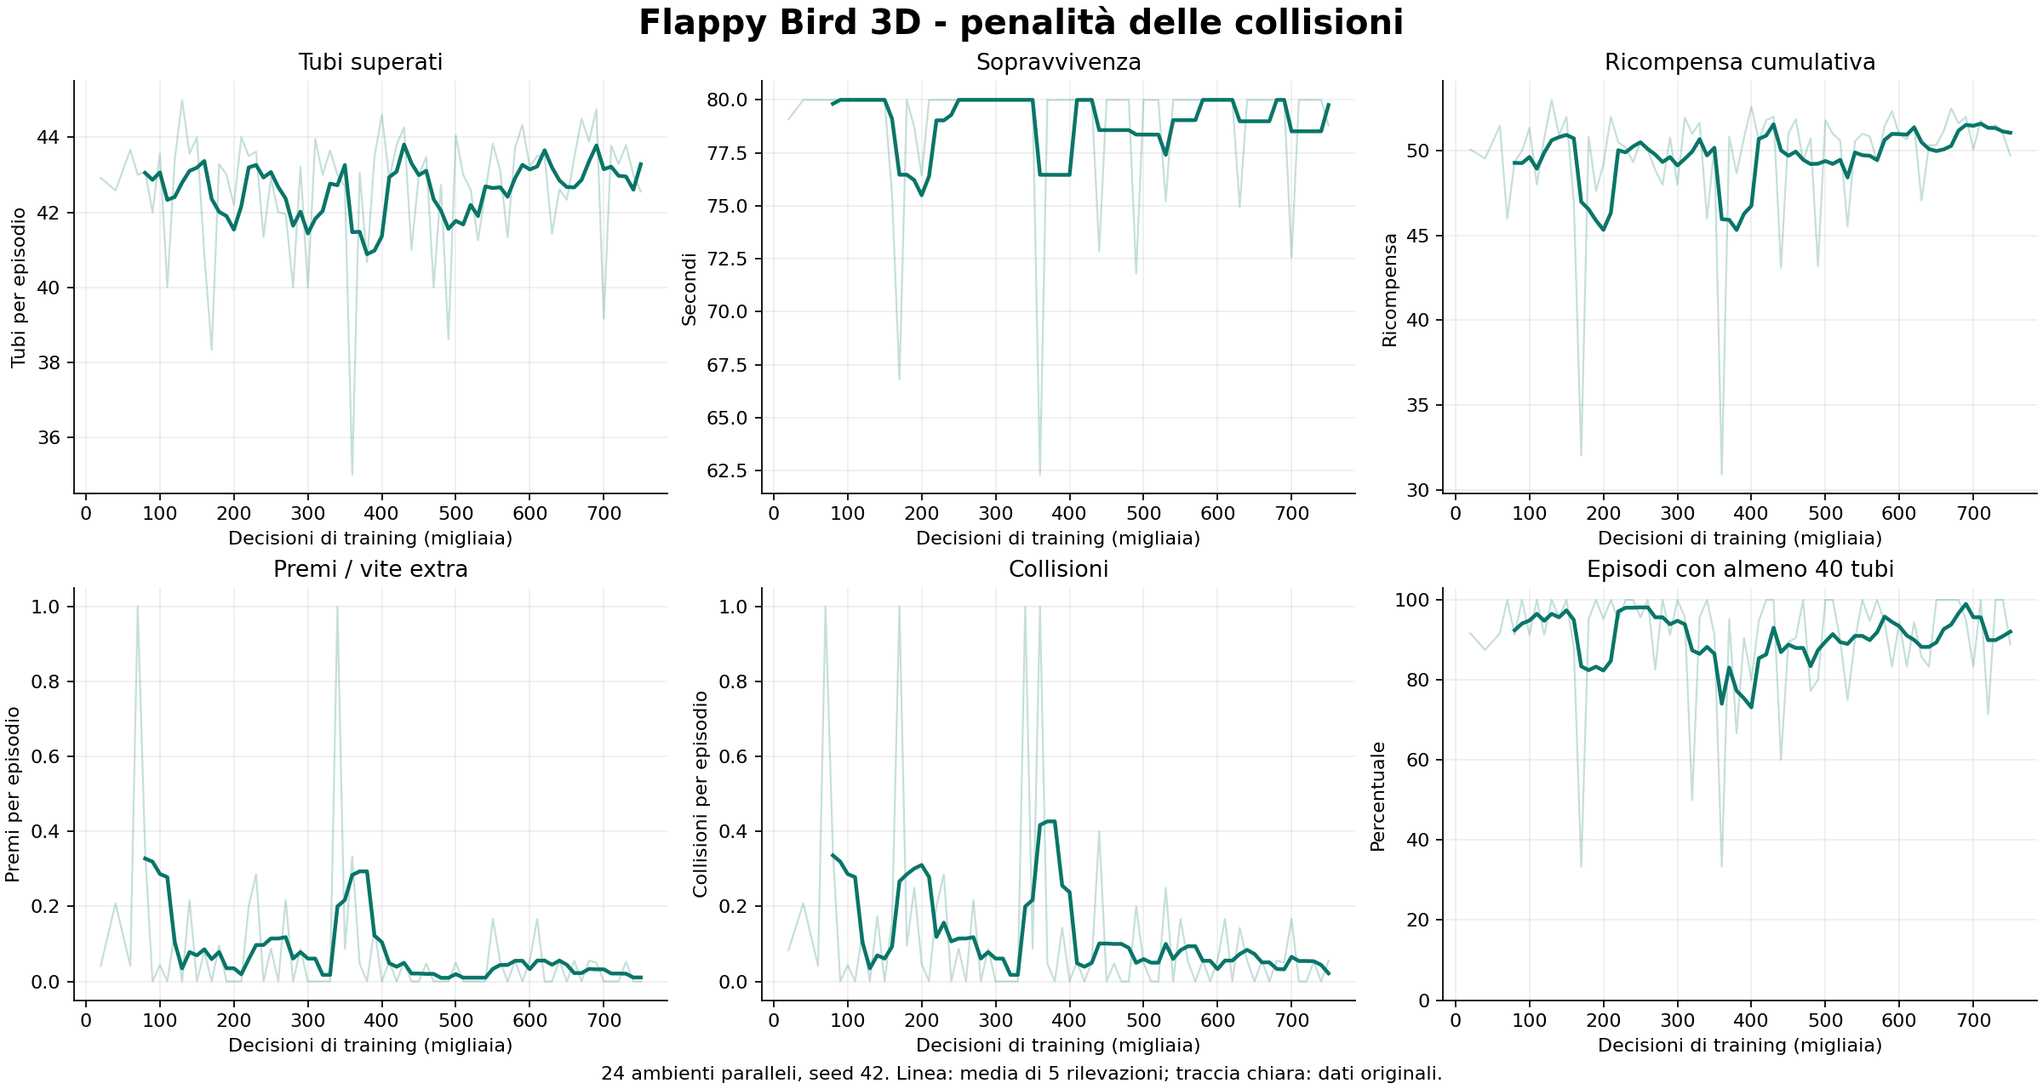
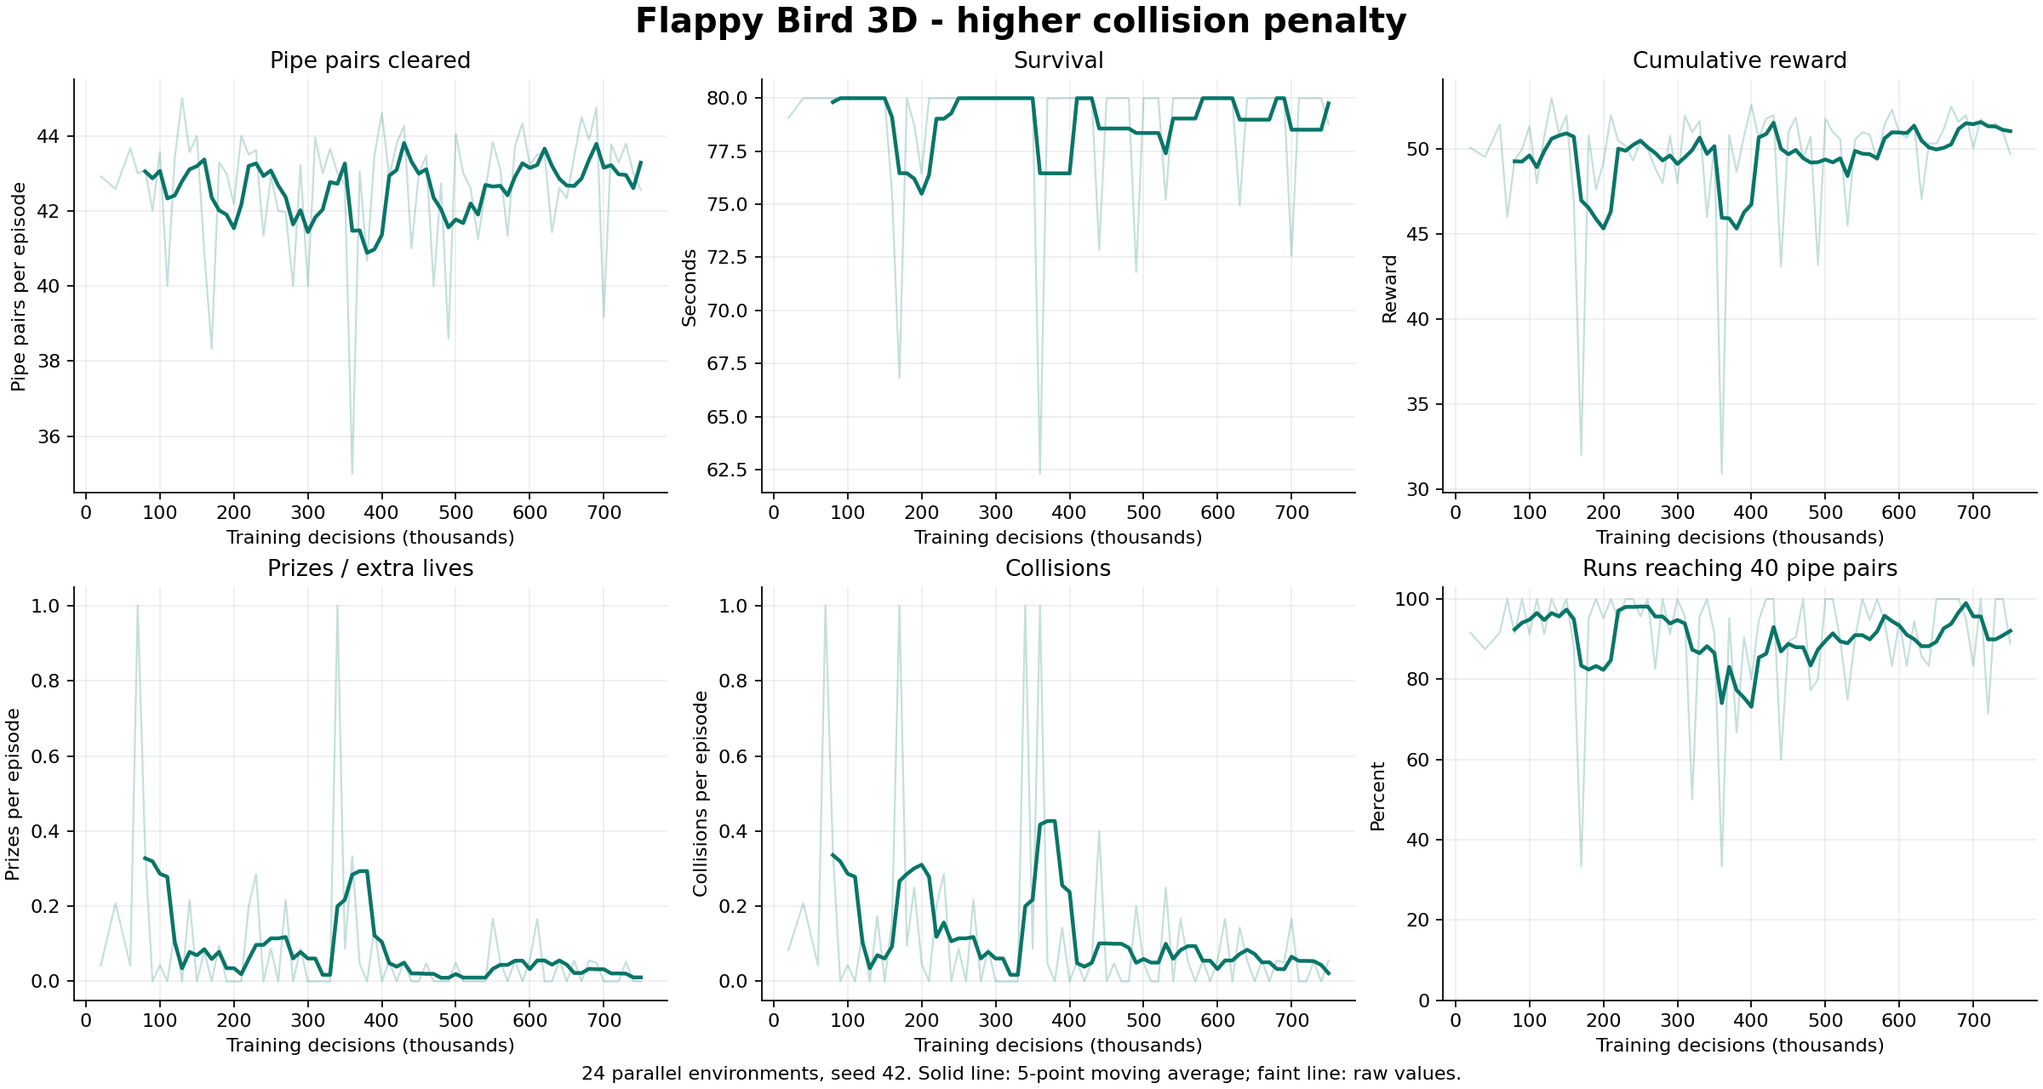
Translate project documentation into English

diff --git a/scripts/plot_results.py b/scripts/plot_results.py
@@ -10,12 +10,12 @@ balanced = "--balanced" in sys.argv
 name = "flight-training" if flight else ("balanced-training" if balanced else "training")
 data=json.loads((ROOT/"report"/("flight-training_metrics.json" if flight else ("balanced-training_metrics.json" if balanced else "training_metrics.json"))).read_text())
 fig,axes=plt.subplots(2,3,figsize=(15,8),layout="constrained")
-panels=[("Game/PipesPassed","Tubi superati","Tubi per episodio"),
-("Game/SurvivalSeconds","Sopravvivenza","Secondi"),
-("Environment/Cumulative Reward","Ricompensa cumulativa","Ricompensa"),
-("Game/PrizesCollected","Premi / vite extra","Premi per episodio"),
-("Game/Collisions","Collisioni","Collisioni per episodio"),
-("Game/Reached40Pipes","Episodi con almeno 40 tubi","Percentuale")]
+panels=[("Game/PipesPassed","Pipe pairs cleared","Pipe pairs per episode"),
+("Game/SurvivalSeconds","Survival","Seconds"),
+("Environment/Cumulative Reward","Cumulative reward","Reward"),
+("Game/PrizesCollected","Prizes / extra lives","Prizes per episode"),
+("Game/Collisions","Collisions","Collisions per episode"),
+("Game/Reached40Pipes","Runs reaching 40 pipe pairs","Percent")]
 for ax,(tag,title,ylabel) in zip(axes.flat,panels):
     values=data.get(tag,[])
     if not values:continue
@@ -25,11 +25,11 @@ for ax,(tag,title,ylabel) in zip(axes.flat,panels):
     ax.plot(x,y,color="#19836f",alpha=.25,lw=1)
     n=min(5,len(y))
     ax.plot(x[n-1:],np.convolve(y,np.ones(n)/n,mode="valid"),color="#087568",lw=2)
-    ax.set(title=title,xlabel="Decisioni di training (migliaia)",ylabel=ylabel)
+    ax.set(title=title,xlabel="Training decisions (thousands)",ylabel=ylabel)
     ax.spines[["top","right"]].set_visible(False);ax.grid(alpha=.2)
     if tag=="Game/Reached40Pipes":ax.set_ylim(0,103)
-fig.suptitle("Flappy Bird 3D - " + ("apprendimento del volo" if flight else ("penalità delle collisioni" if balanced else "volo, premi e vite extra")),fontsize=18,fontweight="bold")
-fig.supxlabel("24 ambienti paralleli, seed 42. Linea: media di 5 rilevazioni; traccia chiara: dati originali.",fontsize=10)
+fig.suptitle("Flappy Bird 3D - " + ("learning to fly" if flight else ("higher collision penalty" if balanced else "flight, prizes and extra lives")),fontsize=18,fontweight="bold")
+fig.supxlabel("24 parallel environments, seed 42. Solid line: 5-point moving average; faint line: raw values.",fontsize=10)
 fig.savefig(ROOT/"report"/(name+".png"),dpi=160)
 print(ROOT/"report"/(name+".png"))
 

diff --git a/report/Relazione-FlappyBird3D.md b/report/Relazione-FlappyBird3D.md
@@ -1,122 +1,120 @@
-# Flappy Bird 3D con ML-Agents
+# Flappy Bird 3D with ML-Agents
 
-Il gioco riprende il Flappy Bird 3D del Lab 3 e lo estende con l'agente richiesto
-dal facoltativo del Lab 6. Usa Sparrow_LOD0, con scala (6, 3, 5), e i tubi di
-Pipe-2.unitypackage. Gli asset sono quelli forniti nel corso.
+The game builds on Flappy Bird 3D from Lab 3 and adds the agent required by the
+optional Lab 6 assignment. It uses Sparrow_LOD0, scaled to (6, 3, 5), and the
+pipes from Pipe-2.unitypackage. These are the assets provided in the course.
 
-## Gioco e agente
+## Game and agent
 
-Il movimento usa il Character Controller, la gravità e il battito in aria
-del tutorial. La camera segue il passerotto in LateUpdate. Sono stati aggiunti
-generazione dei tubi, punteggio, premi e gestione delle vite.
+Movement uses the tutorial's Character Controller, gravity and air-flap impulse.
+The camera follows the bird in LateUpdate. Pipe spawning, scoring, prizes and
+life management have been added.
 
-Lab3Tutorial mantiene i comandi manuali. In Training e Inference il volo è
-vincolato al piano verticale, per evitare che l'agente aggiri i tubi in profondità.
-I collisori arrivano al pavimento e un controllo aggiuntivo evita che il
-Character Controller attraversi un ostacolo per effetto delle compenetrazioni.
-I materiali importati usano lo shader Standard; il pavimento è marrone uniforme.
+Lab3Tutorial keeps the manual controls. In Training and Inference, flight is
+restricted to a vertical plane so the agent cannot go around the pipes in depth.
+The pipe colliders reach the floor. An additional boundary check prevents the
+Character Controller from being pushed through an obstacle during depenetration.
+Imported materials use the Standard shader, and the floor is plain brown.
 
-La partita inizia con una vita. Ogni tre coppie di tubi compare una sfera dorata
-che aggiunge una vita quando viene raccolta. Una collisione ne consuma una:
-se ne restano, il volo riparte conservando il punteggio. Un premio già raccolto
-non ricompare alla ripartenza. Il punto viene assegnato una volta sola, dopo
-l'ingresso nel trigger Middle Pipe e il completo attraversamento del varco.
+Each run starts with one life. A golden orb appears every three pipe pairs and
+grants one extra life when collected. Each collision costs one life. If any lives
+remain, the bird restarts while keeping its score. Collected prizes do not reappear
+after a restart. One point is awarded for each pipe pair, after entering the
+Middle Pipe trigger and fully clearing the gap.
 
-L'agente usa 11 osservazioni: quota e velocità verticale; distanza e dislivello
-del prossimo varco; dimensione del varco; distanza e dislivello del secondo;
-distanza, dislivello e presenza del prossimo premio; velocità dei tubi.
-L'azione è discreta e ha due valori: battere le ali oppure aspettare.
+The agent uses 11 observations: height and vertical velocity; distance and height
+offset to the next gap; gap size; distance and height offset to the second gap;
+distance, height offset and presence of the next prize; and pipe speed.
+The action is discrete, with two values: flap or wait.
 
-## Allenamento
+## Training
 
-Il modello finale usa PPO con seed 42 e 24 ambienti paralleli. La rete ha due
-strati da 128 unità e normalizza le osservazioni. I parametri principali sono
-learning rate iniziale 0,0003, gamma 0,99, batch 1024 e buffer 8192.
-L'agente decide ogni 5 passi fisici; un episodio dura al massimo 4000 passi,
-cioè 80 secondi simulati. L'ultima rilevazione è a 500.000 decisioni.
+The final model uses PPO with seed 42 and 24 parallel environments. The network
+has two layers of 128 units and normalizes its observations. The main parameters
+are an initial learning rate of 0.0003, gamma 0.99, batch size 1024 and buffer
+size 8192. The agent makes a decision every 5 physics steps. Episodes last up to
+4,000 steps, or 80 simulated seconds. The final summary is at 500,000 decisions.
 
-| Evento | Ricompensa |
+| Event | Reward |
 |---|---:|
-| Tubo superato | +1 |
-| Premio raccolto | +5 |
-| Decisione in cui l'agente resta vivo | +0,01 |
-| Collisione | -10 |
-| Perdita dell'ultima vita | ulteriori -3 |
+| Pipe pair cleared | +1 |
+| Prize collected | +5 |
+| Decision while alive | +0.01 |
+| Collision | -10 |
+| Last life lost | an additional -3 |
 
-Per facilitare la raccolta è stato aggiunto un incentivo all'allineamento.
-Quando il prossimo varco contiene un premio e dista meno di 18 unità,
-ogni decisione riceve `0,3 * exp(-errore_verticale² / 4)`.
-I valori delle ricompense, il numero di vite iniziali e la frequenza dei premi
-sono scelte del progetto; la consegna lascia aperti questi dettagli.
+An alignment incentive helps the agent learn to collect prizes. When the next
+gap contains a prize and is less than 18 units away, each decision receives
+`0.3 * exp(-vertical_error² / 4)`. Reward values, initial lives and prize frequency
+are project choices; the assignment leaves these details open.
 
-Le prime prove avevano imparato ad attraversare i tubi, ma raccoglievano pochi
-premi. Il checkpoint del volo a circa 750.000 passi raggiungeva 40 tubi in tutte
-le 30 partite valutate, con un solo premio raccolto complessivamente.
-Sono poi state modificate le ricompense e le osservazioni.
+The early policies learned to clear the pipes but collected few prizes. The
+flight checkpoint at about 750,000 steps reached 40 pipe pairs in all 30 evaluation
+runs, but collected only one prize in total. Rewards and observations were then
+changed over the following phases.
 
-| Fase | Osservazioni | Modifica principale |
+| Phase | Observations | Main change |
 |---|---:|---|
-| flappy3d-ppo-v2 | 12 | Apprendimento del volo; premio +0,5, collisione -2; arresto a circa 1,27 milioni di decisioni |
-| flappy3d-final-v5 | 12 | Premio +5 e collisione -10; 750.000 decisioni |
-| flappy3d-final-v6 | 12 | Allineamento +0,05 e partenze con 1-3 vite nel training; 500.000 decisioni |
-| flappy3d-final-v7 | 11 | Rimozione delle vite dalle osservazioni e allineamento +0,3; modello finale |
+| flappy3d-ppo-v2 | 12 | Flight training; prize +0.5, collision -2; stopped at about 1.27 million decisions |
+| flappy3d-final-v5 | 12 | Prize +5 and collision -10; 750,000 decisions |
+| flappy3d-final-v6 | 12 | Alignment +0.05 and 1-3 initial lives during training; 500,000 decisions |
+| flappy3d-final-v7 | 11 | Life count removed from observations and alignment increased to +0.3; final model |
 
-Nelle prove con 12 osservazioni il controllo peggiorava dopo la raccolta di
-un premio. L'osservazione delle vite è stata quindi rimossa dalla rete finale.
-Per conservare il volo già appreso, scripts/prepare_transfer.py trasferisce
-attore e critico da v6: incorpora nel bias del primo strato il contributo
-corrispondente a una vita, poi rimuove la colonna e la statistica di
-normalizzazione associate. PPO riprende l'allenamento dalla rete così ottenuta.
+In the 12-observation experiments, flight control deteriorated after collecting
+a prize. The life-count observation was therefore removed from the final network.
+To preserve the learned flight policy, scripts/prepare_transfer.py transfers the
+actor and critic from v6: it folds the contribution corresponding to one life
+into the first-layer bias, then removes the associated input column and
+normalization statistics. PPO training resumes from this transferred network.
 
-Il trasferimento è stato verificato su 10.000 vettori:
-le azioni deterministiche coincidono prima e dopo la modifica. L'errore massimo
-nelle attivazioni è 4.8e-06 per l'attore e
-3.3e-06 per il critico.
-I parametri delle fasi intermedie sono conservati nei file in config.
+The transfer was checked on 10,000 input vectors. Deterministic actions
+matched before and after the change. The maximum activation error was
+4.8e-06 for the actor and
+3.3e-06 for the critic.
+Configuration files for the intermediate phases are kept in config.
 
-Tre prove sono state scartate: diagnostic-v1-rail-test permetteva spostamenti
-laterali; diagnostic-v3-prize-respawn faceva ricomparire premi già raccolti;
-flappy3d-final-v4 raggiungeva 40 tubi perdendo una vita dopo ogni premio.
-Le correzioni impediscono la raccolta ripetuta e penalizzano maggiormente le
-collisioni. Le ricompense cumulative di fasi diverse non sono confrontabili
-direttamente, perché sono cambiate anche le regole di assegnazione.
+Three runs were discarded: diagnostic-v1-rail-test allowed lateral escape;
+diagnostic-v3-prize-respawn made collected prizes reappear; and flappy3d-final-v4
+reached 40 pipe pairs while losing one life after each prize. The fixes prevent
+repeated collection and increase the collision penalty. Cumulative rewards from
+different phases cannot be compared directly because the reward rules changed.
 
-![Apprendimento del volo](flight-training.png)
+![Learning to fly](flight-training.png)
 
-![Aumento della penalità di collisione](balanced-training.png)
+![Increasing the collision penalty](balanced-training.png)
 
-![Allenamento finale a 11 osservazioni](training.png)
+![Final training with 11 observations](training.png)
 
-## Risultati
+## Results
 
-La valutazione esegue il modello ONNX in Unity senza il trainer Python.
-Comprende 30 partite con seed base 13007, separato dai seed usati
-nello sviluppo (base 2026). Ogni partita parte con una vita e si ferma a
-40 tubi o dopo 120 secondi simulati. Il confronto casuale sceglie di battere
-le ali con probabilità 0,2 a ogni decisione.
+Evaluation runs the ONNX model in Unity without the Python trainer. It includes
+30 runs with base seed 13007, separate from the development seeds
+(base 2026). Each run starts with one life and ends at 40 pipe pairs or after
+120 simulated seconds. The random baseline flaps with probability 0.2 at each
+decision.
 
-| Misura | Controllo casuale | Agente addestrato |
+| Measure | Random baseline | Trained agent |
 |---|---:|---:|
-| Partite che raggiungono 40 tubi | 0/30 | 30/30 |
-| 40 tubi senza collisioni | 0/30 | 30/30 |
-| Tubi per partita, media | 0,17 | 40,00 |
-| Durata simulata, secondi medi | 2,29 | 73,43 |
-| Premi per partita, media | 0,00 | 12,97 |
-| Collisioni per partita, media | 1,00 | 0,00 |
+| Runs reaching 40 pipe pairs | 0/30 | 30/30 |
+| 40 pipe pairs without collisions | 0/30 | 30/30 |
+| Mean pipe pairs per run | 0.17 | 40.00 |
+| Mean simulated duration, seconds | 2.29 | 73.43 |
+| Mean prizes per run | 0.00 | 12.97 |
+| Mean collisions per run | 1.00 | 0.00 |
 
-Il risultato riguarda questa replica di training e queste 30 partite.
-Le singole prove sono nei file evaluation_random.json ed evaluation_trained.json;
-i CSV riportano le metriche di TensorBoard. Il limite di 40 tubi serve al test:
-nel gioco normale la partita continua finché restano vite.
+These results describe this training run and these 30 evaluation runs. Individual
+results are in evaluation_random.json and evaluation_trained.json; the CSV files
+contain the TensorBoard metrics. The 40-pair limit is only for evaluation.
+The normal game continues as long as lives remain.
 
-I controlli sulle meccaniche sono passati: vita extra, raccolta unica anche dopo
-una ripartenza, punteggio assegnato una volta sola, perdita delle vite e reset
-dopo il Game Over. Il video dura 35 secondi (1280 x 720, 30 fps, seed 2026)
-e mostra 18 tubi superati, 6 premi e 0 collisioni.
+The game-mechanics checks passed: extra lives, one-time prize collection even
+after a restart, one-time scoring, life loss and reset after game over.
+The video lasts 35 seconds (1280 x 720, 30 fps, seed 2026) and shows
+18 pipe pairs cleared, 6 prizes and 0 collisions.
 
[2 lines of base64/hex data omitted]
 
-## File
+## Submission files
 
-Il TXT descrittivo, il video e lo ZIP sono in consegna. Nel TXT vanno inseriti
-i link al progetto e al video dopo il caricamento su Drive/OneDrive o repository.
+The description and video are in consegna. The TXT file contains
+the links to the GitHub repository and video for submission on Campus Virtual.

diff --git a/README.md b/README.md
@@ -1,76 +1,78 @@
 # Flappy Bird 3D
 
-Flappy Bird 3D del Lab 3, esteso per l'esercizio facoltativo di Unity ML-Agents.
-L'agente è addestrato con PPO: attraversa i tubi e raccoglie le sfere dorate
-che aggiungono vite.
+Flappy Bird 3D from Lab 3, extended for the optional Unity ML-Agents assignment.
+The agent was trained with PPO to fly through the pipes and collect golden
+orbs that grant extra lives.
 
-[![Una partita dell'agente](consegna/anteprima.png)](consegna/FlappyBird3D-demo.mp4)
+[![A run by the trained agent](consegna/anteprima.png)](consegna/FlappyBird3D-demo.mp4)
 
-[Video di 35 secondi](consegna/FlappyBird3D-demo.mp4) ·
-[Relazione](report/Relazione-FlappyBird3D.md)
+[35-second video](consegna/FlappyBird3D-demo.mp4) ·
+[Report](report/Relazione-FlappyBird3D.md)
 
-## Aprire il progetto
+## Opening the project
 
-Il progetto usa **Unity 6000.6.2f1** e **ML-Agents 4.2.0**.
-Clona il repository, aggiungi la cartella in Unity Hub con
-**Add > Add project from disk** e apri una delle scene in Assets/Scenes:
+The project uses **Unity 6000.6.2f1** and **ML-Agents 4.2.0**.
+Clone the repository, add the folder in Unity Hub with
+**Add > Add project from disk**, and open a scene in Assets/Scenes:
 
-| Scena | Uso |
+| Scene | Purpose |
 |---|---|
-| Inference.unity | Osservare l'agente già addestrato |
-| Lab3Tutorial.unity | Giocare con frecce e barra spaziatrice |
-| Training.unity | Allenare l'agente nei 24 ambienti |
+| Inference.unity | Watch the trained agent |
+| Lab3Tutorial.unity | Play using the arrow keys and Space |
+| Training.unity | Train the agent in 24 parallel environments |
 
-Premi Play per avviare la scena. Le arene si attivano all'avvio.
-Il modello ONNX è già incluso in Assets/Models; per eseguirlo in Unity
-non serve avviare Python.
+Press Play to start the scene. The arenas activate at startup.
+The ONNX model is included in Assets/Models and runs in Unity without
+starting the Python trainer.
 
-## Regole
+## Game rules
 
-Si parte con una vita. Una sfera dorata ogni tre coppie di tubi ne aggiunge una;
-una collisione ne consuma una. Se restano vite, il volo riparte mantenendo il
-punteggio. Un premio già raccolto non ricompare alla ripartenza.
+Each run starts with one life. A golden orb appears every three pipe pairs
+and grants one extra life. Each collision costs one life. If any lives remain,
+the bird restarts while keeping its score. Collected prizes do not reappear
+after a restart.
 
-Il gioco manuale mantiene il movimento libero del Lab 3. Con l'agente, il volo
-resta sul piano verticale e i tubi vanno attraversati passando nei varchi.
-La rete usa 11 osservazioni su posizione, velocità, tubi e premi e sceglie se
-battere le ali. Ricompense e prove di addestramento sono descritte nella relazione.
+The manual game keeps the free movement used in Lab 3. In agent mode, flight
+is restricted to a vertical plane and the bird has to pass through the gaps.
+The network uses 11 observations about position, velocity, pipes and prizes
+to decide whether to flap. Rewards and training experiments are described
+in the report.
 
-Gli asset Sparrow e Pipe sono quelli forniti nel corso. I materiali importati
-usano lo shader Standard; il pavimento è marrone uniforme.
+Sparrow and Pipe are the assets provided in the course. Imported materials
+use the Standard shader, and the floor is plain brown.
 
-## Risultati
+## Results
 
-Il modello ha raggiunto 40 tubi in tutte le 30 partite del test, senza collisioni,
-con una media di circa 13 premi. Il confronto casuale non ha raggiunto 40 tubi
-in nessuna delle 30 partite. I dati delle singole prove e i grafici sono in report.
+The model reached 40 pipe pairs in all 30 evaluation runs, with no collisions
+and an average of about 13 prizes per run. The random baseline reached
+40 pipe pairs in none of its 30 runs. Individual results and plots are in report.
 
-La valutazione usa seed base 13007 e un limite di 120 secondi simulati.
-Il limite di 40 tubi serve al test: nel gioco normale la partita continua
-finché restano vite.
+Evaluation uses base seed 13007 and a limit of 120 simulated seconds.
+The 40-pair limit is only for evaluation: the normal game continues as long
+as lives remain.
 
-## Ripetere l'allenamento
+## Repeating the training
 
-Con un ambiente Python 3.10.12 attivo:
+With a Python 3.10.12 environment active:
 
 ```bash
 python -m pip install -r requirements.txt
 ```
 
-Dal menu Unity **Flappy Lab > Prepare tutorial and training** compila
-l'app di training per Mac. Poi, dalla cartella del progetto:
+In Unity, use **Flappy Lab > Prepare tutorial and training** to build the
+training app for Mac. Then run these commands from the project folder:
 
 ```bash
 python scripts/prepare_transfer.py
 python scripts/train.py --run-id flappy3d-replica
 ```
 
-Il checkpoint v6 necessario al trasferimento è incluso. Il primo script prepara
-la rete a 11 osservazioni; il secondo la allena con config/flappy-prizes.yaml.
-Per riprendere una replica interrotta, aggiungi --resume con lo stesso run-id.
-**Flappy Lab > Build trained game** ricompila il gioco con il modello aggiornato.
+The v6 checkpoint needed for the transfer is included. The first script prepares
+the 11-observation network; the second trains it with config/flappy-prizes.yaml.
+To resume an interrupted run, add --resume and use the same run ID.
+**Flappy Lab > Build trained game** rebuilds the game with the updated model.
 
-Per ripetere i controlli, dopo aver compilato le app per Mac:
+To repeat the checks after building the Mac apps:
 
 ```bash
 python scripts/verify_game.py mechanics
@@ -78,5 +80,5 @@ python scripts/verify_game.py random
 python scripts/verify_game.py trained
 ```
 
-Nel repository sono inclusi sorgenti, modello, configurazioni, risultati e video.
-Unity ricrea le cartelle di cache e le build rimangono locali.
+The repository contains the source project, model, configurations, results and
+video. Unity recreates its cache folders, and builds are kept locally.
